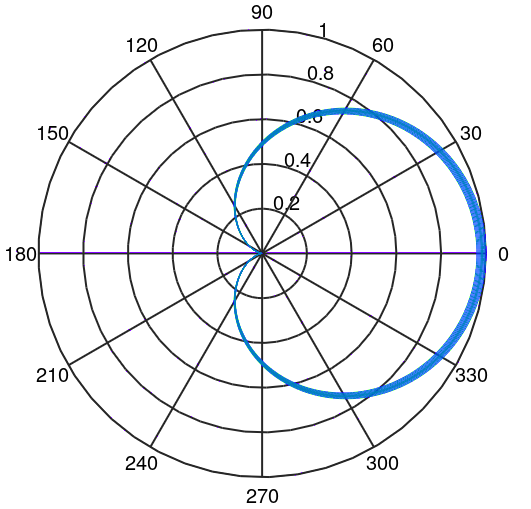
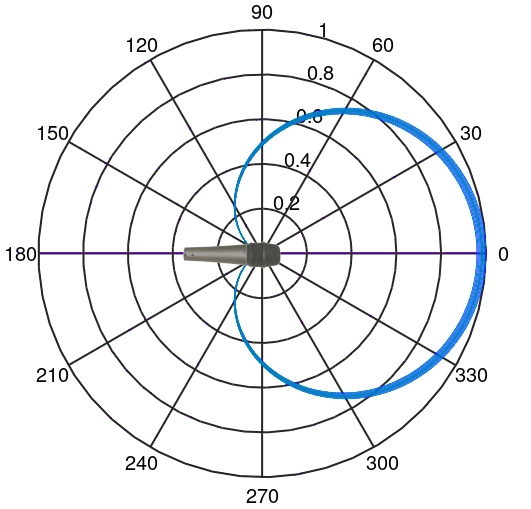
HoW_S added microphone to polar plots, added some text 	new file:   HOW_S/MICS/CAD_C195.png 	modified:   HOW_S/MICS/Cardioid.png 	modified:   HOW_S/MICS/Figure_eight.png 	modified:   HOW_S/MICS/Omni.png 	modified:   HOW_S/MICS/OmniPractical.png 	modified:   HOW_S/MICS/mic_types.html

Changed region(s): [[0.3315, 0.4715, 0.5424, 0.5305]]

diff --git a/HOW_S/MICS/mic_types.html b/HOW_S/MICS/mic_types.html
@@ -871,7 +871,7 @@ plot show the angle, in degrees, from which a sound may arrive.  The numbers bet
 that might be picked up relative to an on-axis arrival.  If you multiply this number 
 by 100 you get the percentage of sound that might be picked up relative to an on-axis 
 arrival.  The heavy (blue) circle around the outside indicates that an omnidirectional 
-microphone picks up sound <br>equally well from any angle.</i>
+microphone picks up sound equally well from any angle.</i>
 <small>Illustration by Prof. </small><span style="font-family:'Garamond'"
 >d<small><small>DB</small></small></span>.<br>
 <br><p>
@@ -910,14 +910,35 @@ are more common in a studio environment for recorded sound.  Omnidirectional mic
 in live-sound applications are mostly limited to lavalier and ear-set microphones where 
 their ability to be miniaturized matters.  <br><br>
 
+Omnidirectional microphones are also inherently superior to directional microphones of
+equivalent cost when uniformly accurate and smooth high-fidelity low-frequency response 
+is needed.  Pianos (the low notes extend down to 27 Hz), Pipe organs (some go down to 16 Hz), 
+bass violins, contrabassoons, and electric bass cabinets can sometimes benefit from using 
+an omnidirectional microphone because of the inherent low-frequency advantage of this
+design.  Not all omnidirectional microphones acheive such excellent low-frequency 
+response, so be sure to check the datasheet before purchasing.  However due to feedback 
+concerns in live-sound, omnidirectional microphones are not a common choice, even when 
+good low-frequency response is helpful.<br><br>    
+
 If omnidirectional microphones are used in live-sound reinforcement their ability to 
 pick up sound from all angles means they are more open to picking up feedback.  This is 
 a serious strike against the routine use of omnidirectional microphones in live-sound 
 reinforcement.  This disadvantage may be overcome by keeping the microphone very close
 to the sound source, which is exactly what ear-set and lavalier microphones do.  (Also, 
 whenever possible keep the mic behind the loudspeaker so that the directional pattern 
-of the loudspeaker directs amplified sound away from the microphone.) 
+of the loudspeaker directs amplified sound away from the microphone.)
 <br><br>
+
+Within the category of omnidirectional microphones there is a category of microphones 
+called "measurement" microphones or "reference" microphones.  These use standard XLR 
+connections and look like any microphone, and superficially they act like any 
+microphone.  But they are optimized for use with spectrum analyzers for scientific 
+laboratory work, not audio mixing boards.  It is not impossible to use this type of 
+microphone in a house-of-worship application, but it is unlikely to be your best choice 
+for the money in this application.  Many of them have restricted dynamic range.  They 
+overload easily and the might have higher background noise than a normal microphone.  
+What they do have is ultra-flat frequency response.  It is usually best not to order 
+one of these for live-sound reinforcement.<br><br>  
 
 <!--<img src="Figure_eight_logo.png"><i><b>Figure-of-eight</i></b><br>
 Before discussing cardiod and super-cardiod microphones, consider Figure-eight microphones.  
